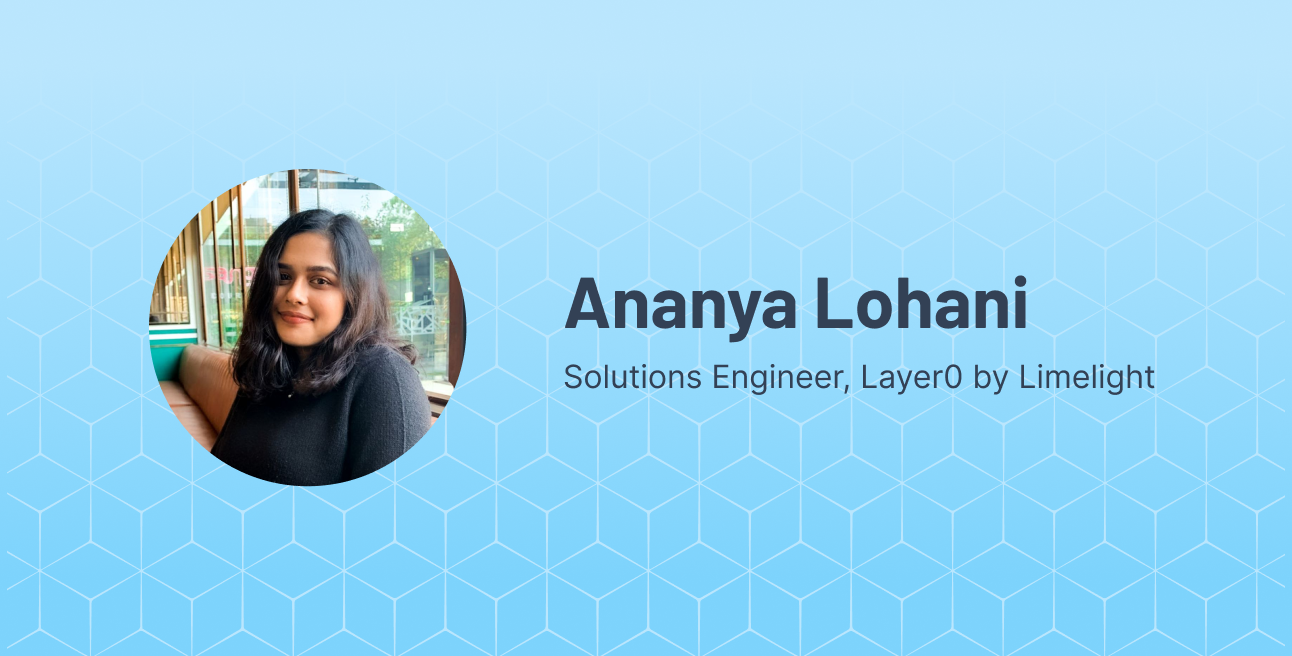
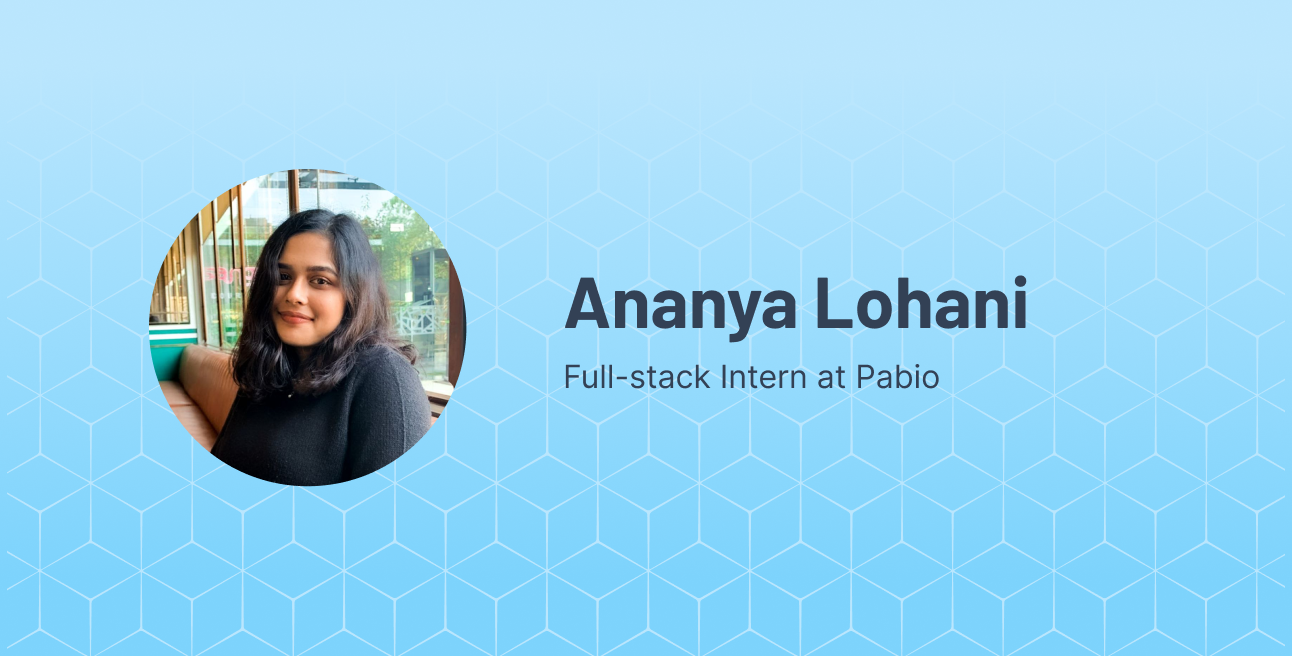
data: Update about section

Changed region(s): [[0.4334, 0.5488, 0.8978, 0.6098]]

diff --git a/src/sections/About.tsx b/src/sections/About.tsx
@@ -20,10 +20,10 @@ export default function About(): ReactElement {
             </p>
             <p>
               I'm currently working at{' '}
-              <a href='https://edg.io' target='_blank' rel='noopener'>
-                Edgio
+              <a href='https://pabio.com' target='_blank' rel='noopener'>
+                Pabio
               </a>{' '}
-              as a Software Engineer.
+              as a Full-stack Intern.
             </p>
             <p>
               Welcome to my little space on the internet where I document my

diff --git a/src/lib/data/navigation.ts b/src/lib/data/navigation.ts
@@ -14,11 +14,11 @@ const navigation = [
     title: 'Blog',
     path: '/blog',
   },
-  {
-    name: 'resume',
-    title: 'Resume',
-    path: 'https://drive.google.com/file/d/18XGrc5pl0dEFYPoRX8LZIcEXF2_3zyb_',
-  },
+  // {
+  //   name: 'resume',
+  //   title: 'Resume',
+  //   path: 'https://drive.google.com/file/d/18XGrc5pl0dEFYPoRX8LZIcEXF2_3zyb_',
+  // },
 ];
 
 export default navigation;
